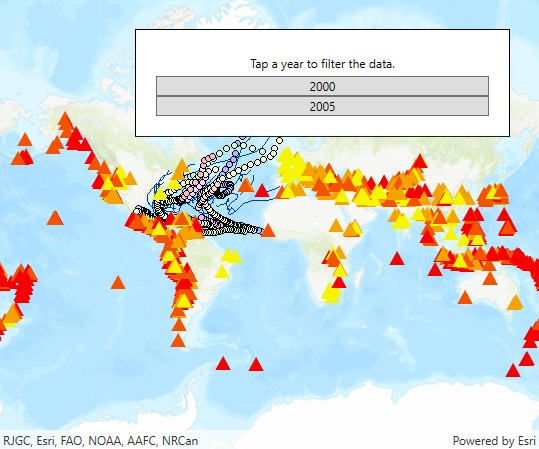
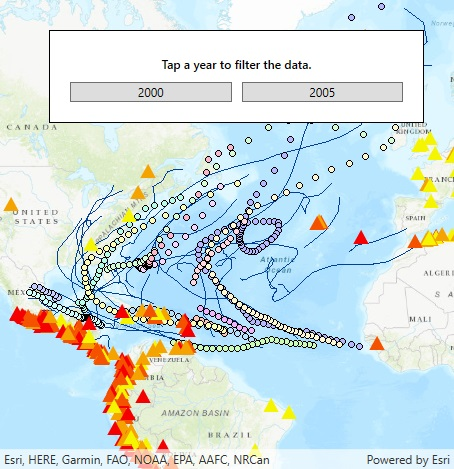
Change time extent
Improvements:

* Improved form layout.
* Updated XAML to better adhere to style guide.

diff --git a/src/WPF/ArcGISRuntime.WPF.Viewer/Samples/MapView/ChangeTimeExtent/ChangeTimeExtent.xaml b/src/WPF/ArcGISRuntime.WPF.Viewer/Samples/MapView/ChangeTimeExtent/ChangeTimeExtent.xaml
@@ -1,30 +1,36 @@
-<UserControl 
+<UserControl
     x:Class="ArcGISRuntime.WPF.Samples.ChangeTimeExtent.ChangeTimeExtent"
     xmlns="http://schemas.microsoft.com/winfx/2006/xaml/presentation"
     xmlns:x="http://schemas.microsoft.com/winfx/2006/xaml"
-    xmlns:mc="http://schemas.openxmlformats.org/markup-compatibility/2006" 
-    xmlns:d="http://schemas.microsoft.com/expression/blend/2008" 
-    xmlns:esri="http://schemas.esri.com/arcgis/runtime/2013" 
-    mc:Ignorable="d" 
-    d:DesignHeight="300" d:DesignWidth="300">
+    xmlns:esri="http://schemas.esri.com/arcgis/runtime/2013">
     <Grid>
         <esri:MapView x:Name="MyMapView" />
-        <Border Background="White" 
+        <Border Background="White"
                 BorderBrush="Black" BorderThickness="1"
                 HorizontalAlignment="Right" VerticalAlignment="Top"
                 Margin="30" Padding="20" Width="375">
-            <StackPanel>
-                <Label 
-                    HorizontalAlignment="Center" 
-                    Content="Tap a year to filter the data." />
-                <Button 
-                    Content="2000" 
-                    Click="twoThousand_Click" />
-                <Button 
-                    Content="2005" 
-                    Click="twoThousandFive_Click" />
-            </StackPanel>
+            <Grid>
+                <Grid.RowDefinitions>
+                    <RowDefinition />
+                    <RowDefinition />
+                </Grid.RowDefinitions>
+                <Grid.ColumnDefinitions>
+                    <ColumnDefinition Width="*" />
+                    <ColumnDefinition Width="*" />
+                </Grid.ColumnDefinitions>
+                <Label Content="Tap a year to filter the data."
+                       Grid.Row="0" Grid.Column="0" Grid.ColumnSpan="2"
+                       HorizontalAlignment="Center"
+                       FontWeight="SemiBold" />
+                <Button Content="2000"
+                        Grid.Row="1" Grid.Column="0"
+                        Margin="0,5,5,0"
+                        Click="twoThousand_Click" />
+                <Button Content="2005"
+                        Grid.Row="1" Grid.Column="1"
+                        Margin="5,5,0,0"
+                        Click="twoThousandFive_Click" />
+            </Grid>
         </Border>
     </Grid>
 </UserControl>
-
